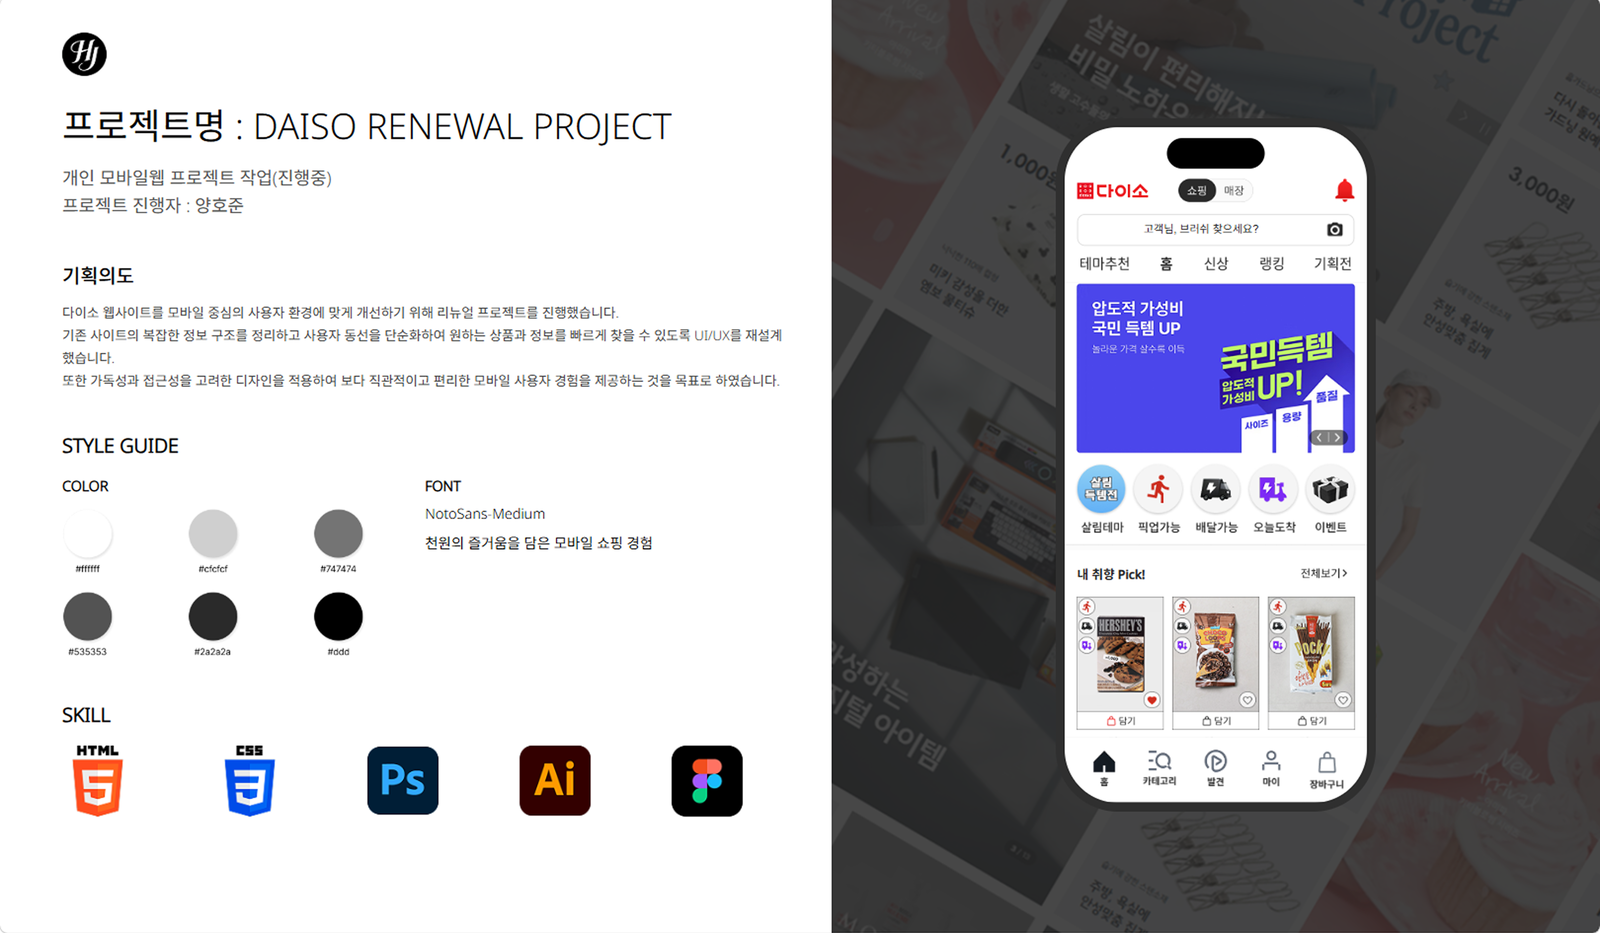
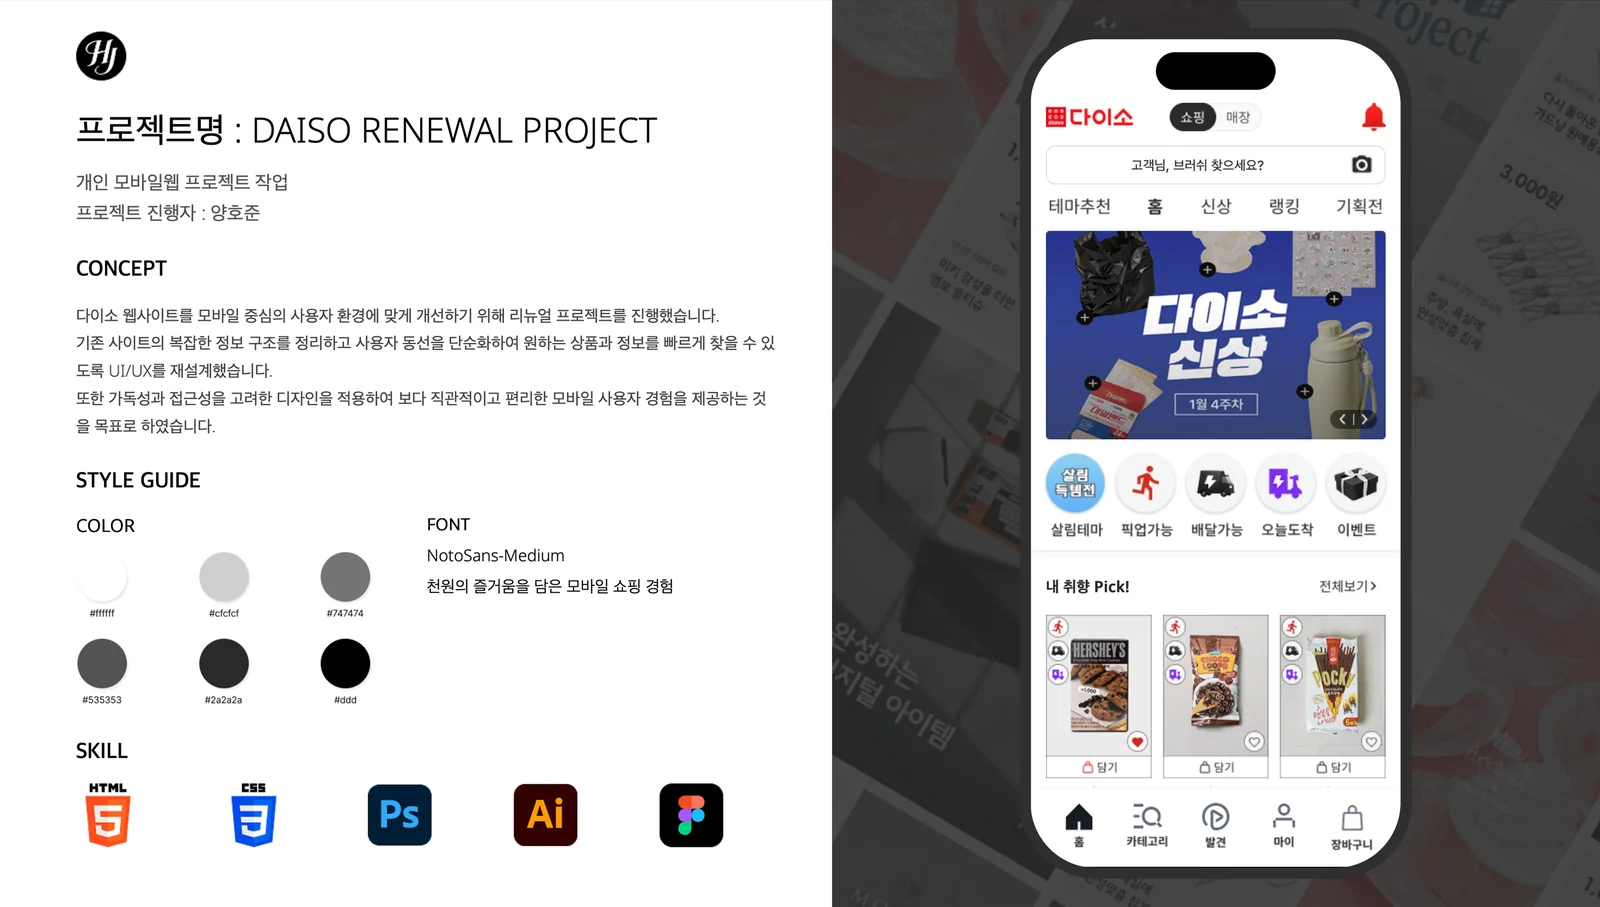
대대손손 큰 업데이트

diff --git a/index.html b/index.html
@@ -1206,7 +1206,7 @@ footer {
 
       <article class="works-card active" id="wc-0">
         <div class="wc-thumb wt-museum">
-          <img src="images/National_Museum_of_Korea_Thumbnail.jpg" alt="국립중앙박물관 리뉴얼 프로젝트 메인 화면 썸네일" loading="lazy">
+          <img src="images/National_Museum_of_Korea_Thumbnail.webp" alt="국립중앙박물관 리뉴얼 프로젝트 메인 화면 썸네일" loading="lazy">
           <span class="wc-badge">반응형 UI</span>
         </div>
         <div class="wc-body">
@@ -1222,8 +1222,8 @@ footer {
             <div class="work-tag-row"><span class="wtag">HTML</span><span class="wtag">CSS</span><span class="wtag">JavaScript</span><span class="wtag">반응형</span></div>
           </div>
           <div class="wc-links-row">
-            <a href="https://hojoon99.dothome.co.kr/National_Museum_of_Korea/main.html" target="_blank" rel="noopener" class="wc-link" aria-label="국립중앙박물관 리뉴얼 사이트 보기" title="사이트 보기">↗</a>
-            <a href="https://www.figma.com/deck/BKWtfOvhruurvbnscJtmjS" target="_blank" rel="noopener" class="wc-link-plan" aria-label="국립중앙박물관 리뉴얼 기획서 보기" title="기획서 보기">
+            <a href="https://national-museum-renewal.vercel.app/" target="_blank" rel="noopener" class="wc-link" aria-label="국립중앙박물관 리뉴얼 사이트 보기" title="사이트 보기">↗</a>
+            <a href="https://drive.google.com/file/d/1O9yZ9UmAXMzQXy2F82XejFNnsdi2w-io/view?usp=drive_link" target="_blank" rel="noopener" class="wc-link-plan" aria-label="국립중앙박물관 리뉴얼 기획서 보기" title="기획서 보기">
               <svg width="16" height="16" viewBox="0 0 24 24" fill="none" stroke="currentColor" stroke-width="2" stroke-linecap="round" stroke-linejoin="round" aria-hidden="true"><path d="M10 13a5 5 0 0 0 7.54.54l3-3a5 5 0 0 0-7.07-7.07l-1.72 1.71"/><path d="M14 11a5 5 0 0 0-7.54-.54l-3 3a5 5 0 0 0 7.07 7.07l1.71-1.71"/></svg>
             </a>
           </div>
@@ -1249,7 +1249,7 @@ footer {
           </div>
           <div class="wc-links-row">
             <a href="https://snappin-hojoon.vercel.app" target="_blank" rel="noopener" class="wc-link" aria-label="SnapPin 사이트 보기" title="사이트 보기">↗</a>
-            <a href="https://www.figma.com/deck/Y2HqfXWSDJo7q4agdrxhDe" target="_blank" rel="noopener" class="wc-link-plan" aria-label="SnapPin 기획서 보기" title="기획서 보기">
+            <a href="https://drive.google.com/file/d/1hDQst9cDTSOp7xsXrMFKOwKKgld5pRPG/view?usp=drive_link" target="_blank" rel="noopener" class="wc-link-plan" aria-label="SnapPin 기획서 보기" title="기획서 보기">
               <svg width="16" height="16" viewBox="0 0 24 24" fill="none" stroke="currentColor" stroke-width="2" stroke-linecap="round" stroke-linejoin="round" aria-hidden="true"><path d="M10 13a5 5 0 0 0 7.54.54l3-3a5 5 0 0 0-7.07-7.07l-1.72 1.71"/><path d="M14 11a5 5 0 0 0-7.54-.54l-3 3a5 5 0 0 0 7.07 7.07l1.71-1.71"/></svg>
             </a>
           </div>
@@ -1276,7 +1276,7 @@ footer {
           </div>
           <div class="wc-links-row">
             <a href="https://yang-hojoon.github.io/daiso-renewal/mdev_yhj.html" target="_blank" rel="noopener" class="wc-link" aria-label="다이소 앱 리뉴얼 사이트 보기" title="사이트 보기">↗</a>
-            <a href="https://drive.google.com/file/d/1hShBWLqD3mGCNkPJlVci5jtQ5KWSDvPJ/view?usp=drive_link" target="_blank" rel="noopener" class="wc-link-plan" aria-label="다이소 앱 리뉴얼 기획서 보기" title="기획서 보기">
+            <a href="https://drive.google.com/file/d/10VEe0-1-f0vcjHc3Yx4AVM089662lwe_/view?usp=drive_link" target="_blank" rel="noopener" class="wc-link-plan" aria-label="다이소 앱 리뉴얼 기획서 보기" title="기획서 보기">
               <svg width="16" height="16" viewBox="0 0 24 24" fill="none" stroke="currentColor" stroke-width="2" stroke-linecap="round" stroke-linejoin="round" aria-hidden="true"><path d="M10 13a5 5 0 0 0 7.54.54l3-3a5 5 0 0 0-7.07-7.07l-1.72 1.71"/><path d="M14 11a5 5 0 0 0-7.54-.54l-3 3a5 5 0 0 0 7.07 7.07l1.71-1.71"/></svg>
             </a>
           </div>
@@ -1302,7 +1302,7 @@ footer {
           </div>
           <div class="wc-links-row">
             <a href="https://daehakro-portfolio.vercel.app/" target="_blank" rel="noopener" class="wc-link" aria-label="대학로티켓 리뉴얼 사이트 보기" title="사이트 보기">↗</a>
-            <a href="https://drive.google.com/file/d/1uosVchGvvuVpUUR3LNOf0XDNknRy4DCA/view?usp=drive_link" target="_blank" rel="noopener" class="wc-link-plan" aria-label="대학로티켓 리뉴얼 기획서 보기" title="기획서 보기">
+            <a href="https://drive.google.com/file/d/16APURItdCu2eVwepT8KRBzmIWjetnxWu/view?usp=drive_link" target="_blank" rel="noopener" class="wc-link-plan" aria-label="대학로티켓 리뉴얼 기획서 보기" title="기획서 보기">
               <svg width="16" height="16" viewBox="0 0 24 24" fill="none" stroke="currentColor" stroke-width="2" stroke-linecap="round" stroke-linejoin="round" aria-hidden="true"><path d="M10 13a5 5 0 0 0 7.54.54l3-3a5 5 0 0 0-7.07-7.07l-1.72 1.71"/><path d="M14 11a5 5 0 0 0-7.54-.54l-3 3a5 5 0 0 0 7.07 7.07l1.71-1.71"/></svg>
             </a>
           </div>
@@ -1323,7 +1323,7 @@ footer {
 
     <article class="case-card fade-in">
       <div class="case-thumb">
-        <img src="images/campus.jpg" alt="대학교 통합 어플 UI 개선 프로젝트 표지" loading="lazy">
+        <img src="images/Campus_App_Thumbnail.webp" alt="대학교 통합 어플 UI 개선 프로젝트 표지" loading="lazy">
       </div>
       <div class="case-body">
         <p class="case-num">01</p>
@@ -1333,7 +1333,7 @@ footer {
           분리되어 있던 4개의 학교 어플을 하나로 통합하는 UX 리서치 프로젝트.
           사용자 인터뷰·설문조사(33명)·SEED IDEA를 거쳐 통합 어플의 IA를 새로 설계하고 프로토타입까지 도출했습니다.
         </p>
-        <a href="https://drive.google.com/file/d/1KVdUnHVf-ABFr8NDTxdrEcJxo3nP9a7_/view?usp=drive_link" target="_blank" rel="noopener" class="case-link">
+        <a href="https://drive.google.com/file/d/1JKcBJtJ_IpFS3dGpIn246UNjk1V39Ekv/view?usp=drive_link" target="_blank" rel="noopener" class="case-link">
           기획서 보기 <span class="case-link-arrow">→</span>
         </a>
       </div>
@@ -1341,7 +1341,7 @@ footer {
 
     <article class="case-card fade-in">
       <div class="case-thumb">
-        <img src="images/palago.jpg" alt="팔라고 기프티콘 중고거래 App 개선 프로젝트 표지" loading="lazy">
+        <img src="images/Palago_Thumbnail.webp" alt="팔라고 기프티콘 중고거래 App 개선 프로젝트 표지" loading="lazy">
       </div>
       <div class="case-body">
         <p class="case-num">02</p>
@@ -1351,7 +1351,7 @@ footer {
           기프티콘 중고거래 앱 '팔라고'의 UI를 재설계한 프로젝트.
           기존 서비스의 사용성 문제를 분석하고 인터뷰·설문 결과를 바탕으로 화면 구조와 시각 위계를 다시 정리했습니다.
         </p>
-        <a href="https://drive.google.com/file/d/1FgO_FYs8rhqrslJHGhSFq3cA1iP0YISH/view?usp=drive_link" target="_blank" rel="noopener" class="case-link">
+        <a href="https://drive.google.com/file/d/1yogBwp7aUG9j-QwwCfhURvOKY8BY2xSL/view?usp=drive_link" target="_blank" rel="noopener" class="case-link">
           기획서 보기 <span class="case-link-arrow">→</span>
         </a>
       </div>
@@ -1359,7 +1359,7 @@ footer {
 
     <article class="case-card fade-in">
       <div class="case-thumb">
-        <img src="images/taxiv.jpg" alt="TAXIV 택시 플랫폼 서비스 프로젝트 표지" loading="lazy">
+        <img src="images/Taxiv_Thumbnail.webp" alt="TAXIV 택시 플랫폼 서비스 프로젝트 표지" loading="lazy">
       </div>
       <div class="case-body">
         <p class="case-num">03</p>
@@ -1369,7 +1369,7 @@ footer {
           승객과 기사 모두를 위한 새로운 택시 플랫폼 서비스 기획.
           Double Diamond 프로세스로 페르소나·가치제안지도·사용자 여정지도부터 비즈니스 모델·브랜딩·프로토타입까지 풀 사이클로 진행했습니다.
         </p>
-        <a href="https://drive.google.com/file/d/1UWHrVU9DzcFTFuZDR3uNpB56rpCez4cl/view?usp=drive_link" target="_blank" rel="noopener" class="case-link">
+        <a href="https://drive.google.com/file/d/18BBzjOR0ze-uAYHFy7vhICiRCjEn4k6B/view?usp=drive_link" target="_blank" rel="noopener" class="case-link">
           기획서 보기 <span class="case-link-arrow">→</span>
         </a>
       </div>
